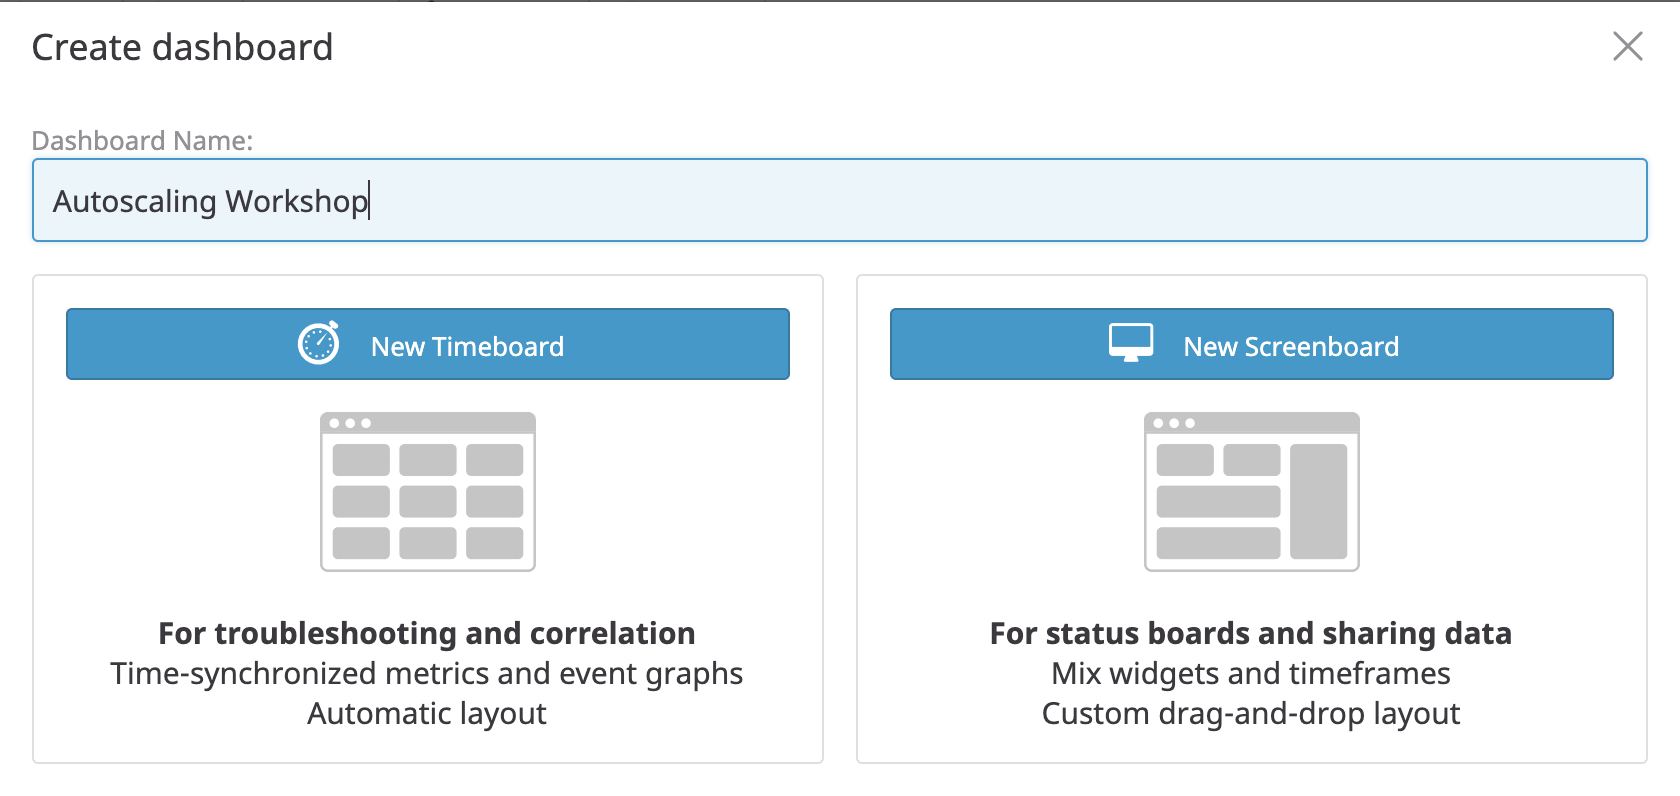
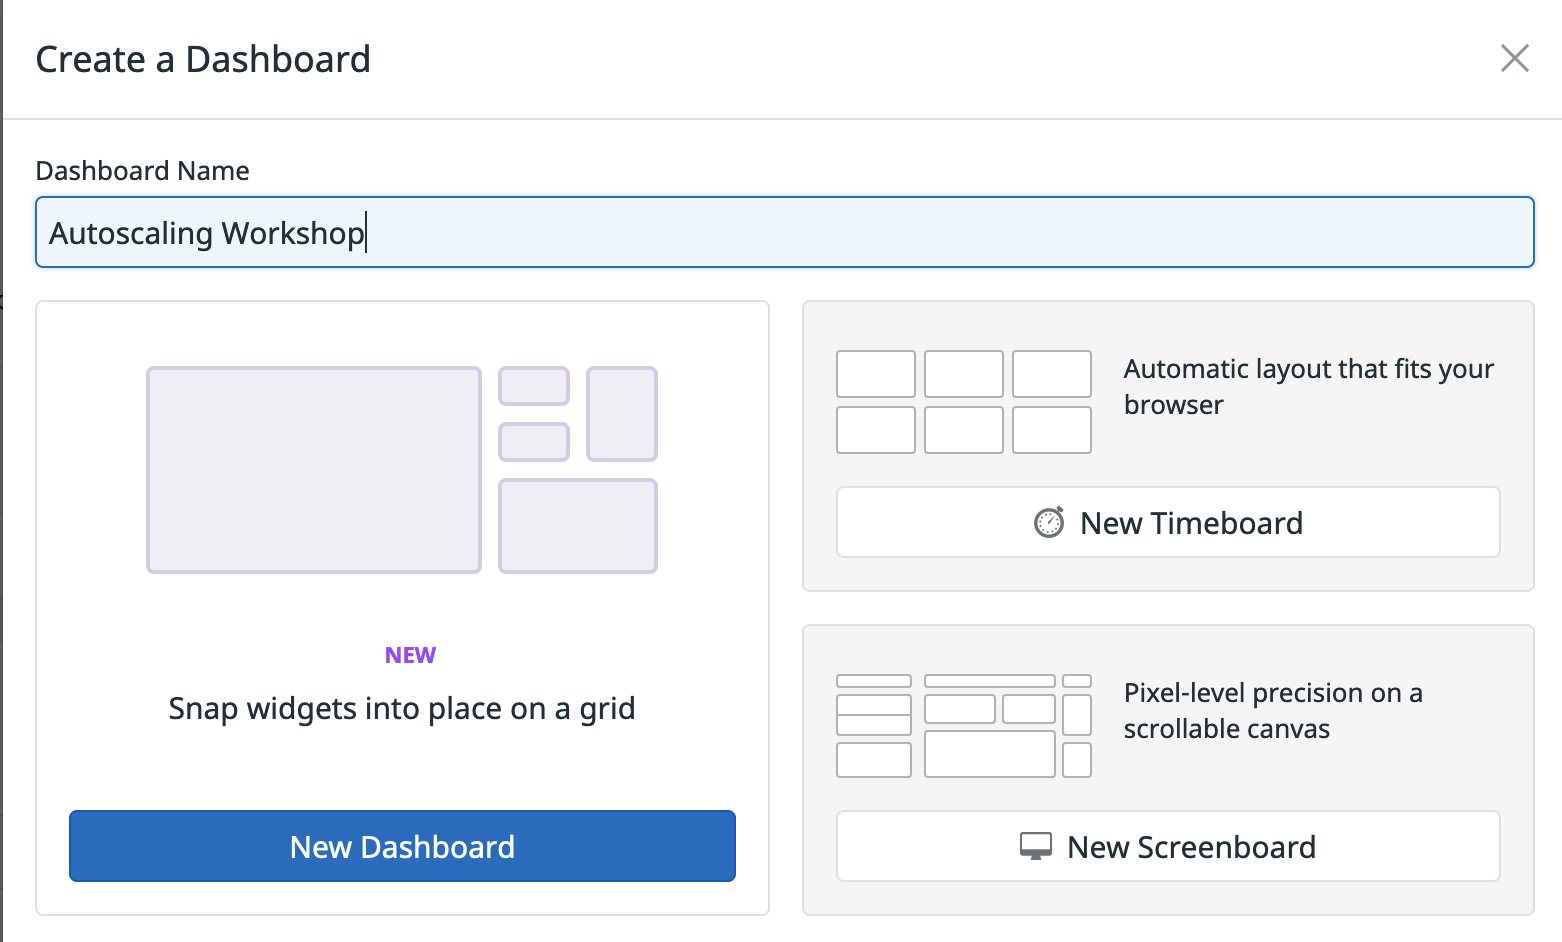
Fixes to the autoscaling dashboard step

Changed region(s): [[0.0, 0.1206, 0.9834, 0.9648], [0.0, 0.0, 0.2458, 0.0905], [0.9526, 0.0302, 0.9834, 0.0905]]

diff --git a/autoscaling-k8s/step3_1.md b/autoscaling-k8s/step3_1.md
@@ -1,22 +1,24 @@
 We are going to build a dashboard in Datadog that will help us visualize what is happening in our cluster throughout the rest of the workshop.
 
-Click on Dashboards -> New Dashboard in the menu. Provide a name and select New Timeboard:
+Click on Dashboards -> New Dashboard in the menu. Provide a name and select New Dashboard (on the left):
 
 ![Screenshot of New Dashboard](./assets/new_dashboard.png)
 
-Click on "Add Graph" and select "Timeseries" as the type of graph.
+Click on "Add Widget" and select "Timeseries" as the type of widget.
 
-For the first graph we are going to visualize the number of pod replicas we have for the `store-frontend` service. Select `kubernetes_state.deployment.replicas` as metric and filter by `kube_deployment:frontend`:
+For the first graph we are going to visualize the number of pod replicas we have for the `store-frontend` service. Select `kubernetes_state.deployment.replicas` as metric and filter by `kube_deployment:frontend`. Title it as "frontend replicas":
 
 ![Screenshot of replicas metric](./assets/frontend_replicas.png)
 
-Save the graph and add another "Timeseries" graph to the dashboard. This time select `kubernetes.cpu.usage.total` as metric and `kube_deployment:frontend` as filter.
+Save the widget and add another "Timeseries" widget to the dashboard. This time select `kubernetes.cpu.usage.total` as metric and `kube_deployment:frontend` as filter. Title it as "frontend CPU usage".
 
-Save the graph and add another "Timeseries" graph to the dashboard. This time select `trace.rack.request.duration.by.service.99p` as metric and `service:store-frontend` as filter. Call it "p99 latency for the frontend service". 
+Save the widget and add another "Timeseries" widget to the dashboard. This time select `kubernetes.memory.usage` as metric and `kube_deployment:frontend` as filter. Title it as "frontend memory usage".
 
-Save the graph and add another "Timeseries" graph to the dashboard. This time select `trace.rack.request.hits` as metric and `service:store-frontend` as filter. Call it "Number of requests per minute for the frontend service". 
+Save the widget and add another "Timeseries" widget to the dashboard. This time select `trace.rack.request` as metric and `service:store-frontend` as filter, and select the p99 metric. Title it as "p99 latency for the frontend service".
 
-Save the graph and add another "Timeseries" graph to the dashboard. This time select `kubernetes.memory.usage` as metric and `kube_deployment:frontend` as filter. Save this graph and click on "Finish Editing" to save the full Dashboard. You should get a Dashboard similar to this:
+![Screenshot of p99 metric](./assets/frontend_p99.png)
+
+Save the widget and add another "Timeseries" widget to the dashboard. This time select `trace.rack.request.hits` as metric and `service:store-frontend` as filter. Title it "frontend service requests". Save this widget and click on "Close" to save the full Dashboard. You should get a Dashboard similar to this:
 
 ![Screenshot of Dashboard](./assets/autoscaling_workshop_dashboard.png)
 
